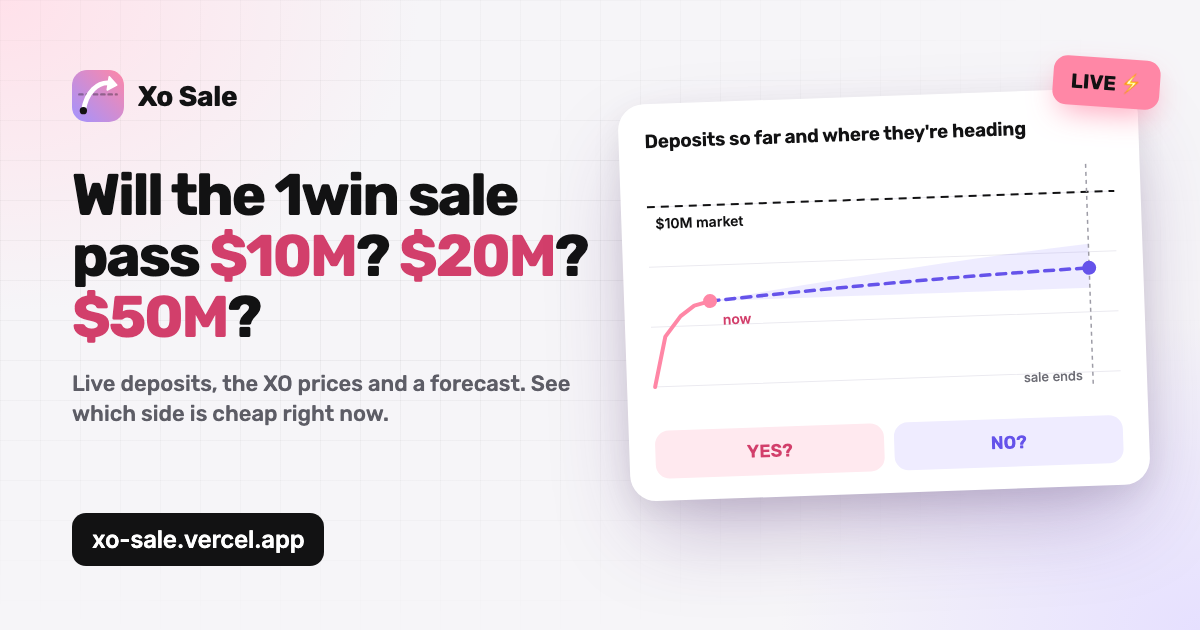
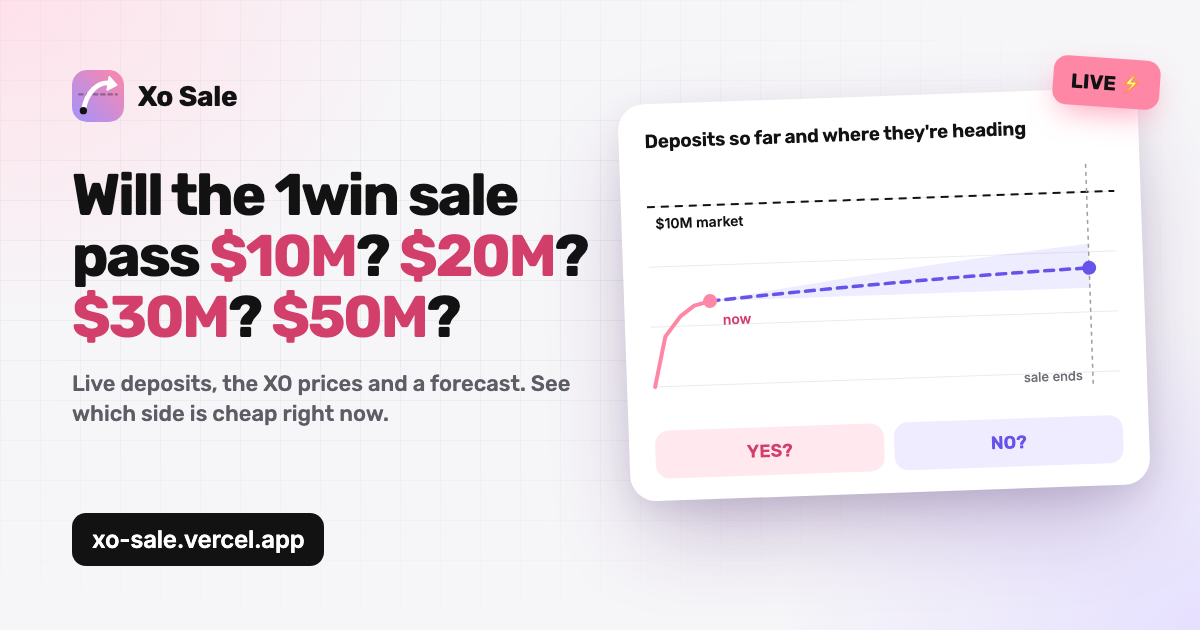
Link preview asks about $30M too; new image URL so X and Telegram fetch it again

Changed region(s): [[0.0925, 0.4524, 0.4008, 0.5429]]

diff --git a/index.html b/index.html
@@ -9,13 +9,13 @@
 <meta property="og:description" content="Live deposits, the XO prices and a forecast: which side looks cheap right now.">
 <meta property="og:type" content="website">
 <meta property="og:url" content="https://xo-sale.vercel.app/">
-<meta property="og:image" content="https://xo-sale.vercel.app/img/og.png?v=3">
+<meta property="og:image" content="https://xo-sale.vercel.app/img/og.png?v=4">
 <meta property="og:image:width" content="1200">
 <meta property="og:image:height" content="630">
 <meta name="twitter:card" content="summary_large_image">
 <meta name="twitter:title" content="Xo Sale · Will the 1win sale pass $10M? $20M? $30M? $50M?">
 <meta name="twitter:description" content="Live deposits, the XO prices and a forecast: which side looks cheap right now.">
-<meta name="twitter:image" content="https://xo-sale.vercel.app/img/og.png?v=3">
+<meta name="twitter:image" content="https://xo-sale.vercel.app/img/og.png?v=4">
 <meta name="theme-color" content="#f6f5f8">
 <script>
   (function () {

diff --git a/promo/og.html b/promo/og.html
@@ -26,7 +26,7 @@ h1 span{color:#d23f6b}
 <div class="grid"></div>
 <div class="left">
   <div class="brand"><img src="../img/logo.svg"><span>Xo Sale</span></div>
-  <h1>Will the 1win sale pass <span>$10M</span>? <span>$20M</span>? <span>$50M</span>?</h1>
+  <h1>Will the 1win sale pass <span>$10M</span>? <span>$20M</span>? <span>$30M</span>? <span>$50M</span>?</h1>
   <div class="sub">Live deposits, the XO prices and a forecast. See which side is cheap right now.</div>
 </div>
 <div class="url">xo-sale.vercel.app</div>
